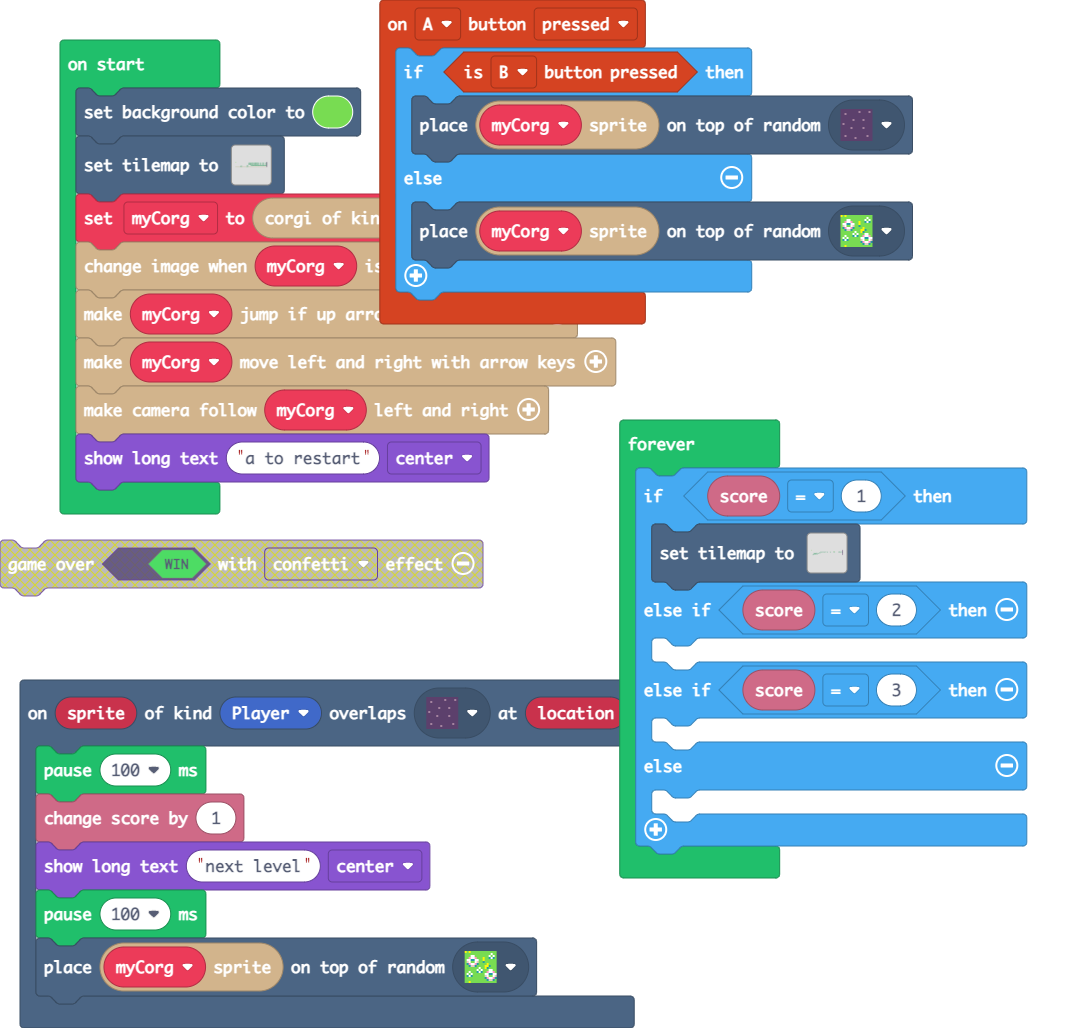
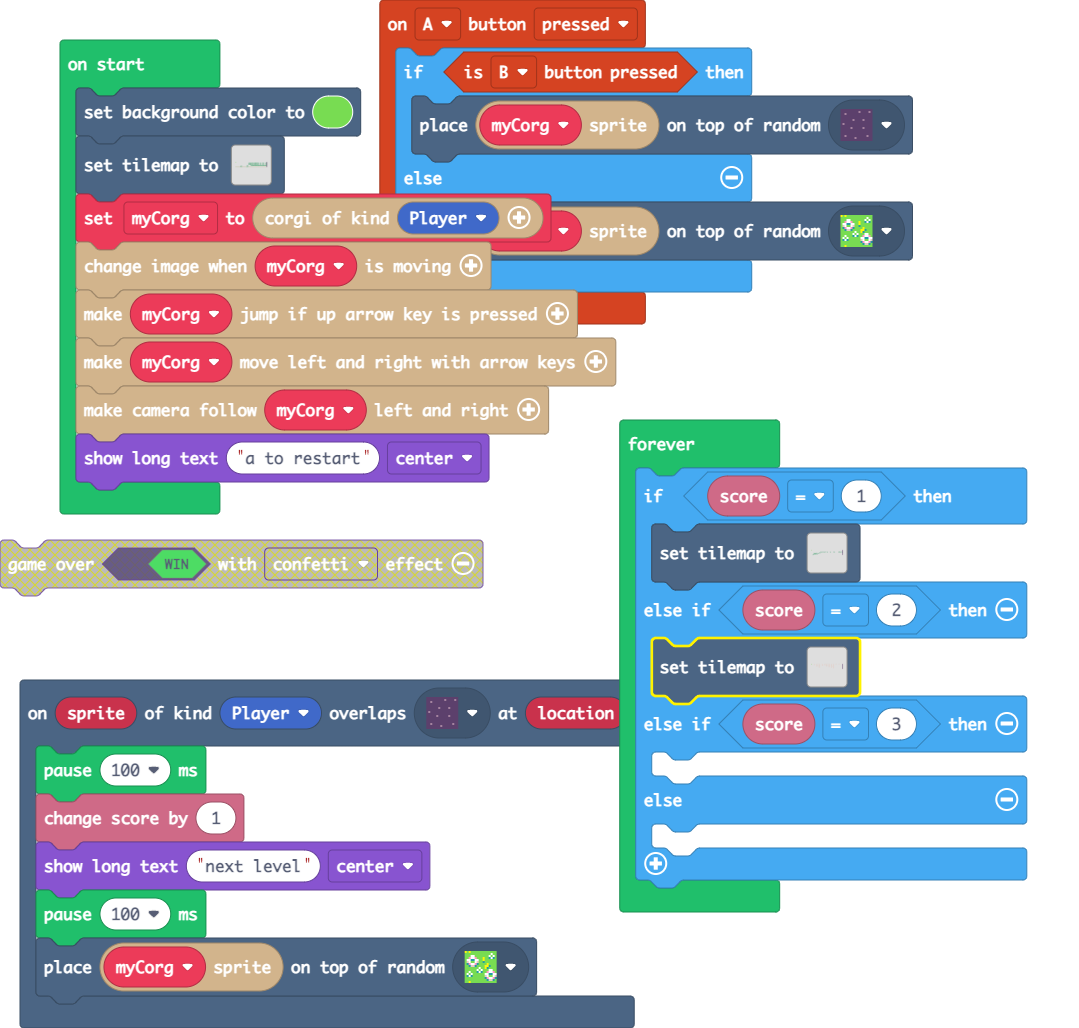
levle 3

Changed region(s): [[0.5505, 0.5914, 0.9787, 0.9027], [0.3364, 0.1868, 0.5505, 0.3424]]

diff --git a/tilemap.g.ts b/tilemap.g.ts
@@ -16,17 +16,6 @@ namespace myTiles {
 .........2.........2..........2....................
 .........2.........2...........2...................
 `, [myTiles.transparency16,sprites.castle.tilePath8,sprites.castle.tilePath7,sprites.builtin.forestTiles0,sprites.castle.tilePath9,sprites.dungeon.darkGroundCenter,sprites.castle.tileGrass2], TileScale.Sixteen);
-            case "level2":
-            case "level2":return tiles.createTilemap(hex`340008000100000000000000000000000000000000000000000000000000000000000000000000000000000000000000000000000000000300000000000000000000000000000000000000000000000000000000000000000000000000000000000000000000000000000003000000000000000000000000000000000000000000000000000000000000000000000000000100000000000000000000000000030000000000000000000000000000000002000002000002000000020000000002000000000002000000000000000200020000020300000000000000000000000000000200000000000000000000000000000000000000000000000000000000000000000000000003000000000002000200020000020000000000000000000000000000000000000000000000000000000000000000000000000000030000000002000200020002000000000000000000000000000000000000000000000000000000000000000000000000000000000300000002000000000000000000000000000000000000000000000000000000000000000000000000000000000000000000000003`, img`
-22..................................................
-22..................................................
-2...................................................
-2...............2..2..2...2....2.....2.......2.2..2.
-2.............2...................................2.
-2....2.2.2..2.....................................2.
-2...2.2.2.2.......................................2.
-222222222222222222222222222222222222222222222222222.
-`, [myTiles.transparency16,sprites.castle.tileGrass2,sprites.builtin.forestTiles0,sprites.dungeon.darkGroundCenter], TileScale.Sixteen);
             case "level3":
             case "level3":return tiles.createTilemap(hex`33000800060000000000000000000000000000000000000000000000000000000000000000000000000000000000000000000000000005000000000000000000000000000000000000000000000300000300000300000300030000030000000300000003000000000305000000000000000000000000000000000000000000000300000300000300000300030000030000000300000003000000000305000000000000000000000000000000000000000000030303030300000300000300030000030000000300000003000000000305000000000000000000000000000000000000000000000000000300000300000300030000030000000300000003000000000305000000000000000000000000000000000000000300000000000303030303030303030303030303030303030303030303030305000000000000000000030000000000000000000300000000000000000000000000000000000000000000000000000000000005020101010101010104030201010101010101040302010101010101010101010101010101010101010101010101010101010105`, img`
 ...................................................
@@ -38,6 +27,66 @@ namespace myTiles {
 .........2.........2..........2....................
 .........2.........2...........2...................
 `, [myTiles.transparency16,sprites.castle.tilePath8,sprites.castle.tilePath7,sprites.builtin.forestTiles0,sprites.castle.tilePath9,sprites.dungeon.darkGroundCenter,sprites.castle.tileGrass2], TileScale.Sixteen);
+            case "level4":
+            case "level4":return tiles.createTilemap(hex`1000100000000000000000000000000000000000000000000000000000000000000000000000000000000000000000000000000000000000000000000000000000000000000000000000000000000000000000000000000000000000000000000000000000000000000000000000000000000000000000000000000000000000000000000000000000000000000000000000000000000000000000000000000000000000000000000000000000000000000000000000000000000000000000000000000000000000000000000000000000000000000000000000000000000000000000000000000000000000000000000000000000000000000000000000000000000000`, img`
+. . . . . . . . . . . . . . . . 
+. . . . . . . . . . . . . . . . 
+. . . . . . . . . . . . . . . . 
+. . . . . . . . . . . . . . . . 
+. . . . . . . . . . . . . . . . 
+. . . . . . . . . . . . . . . . 
+. . . . . . . . . . . . . . . . 
+. . . . . . . . . . . . . . . . 
+. . . . . . . . . . . . . . . . 
+. . . . . . . . . . . . . . . . 
+. . . . . . . . . . . . . . . . 
+. . . . . . . . . . . . . . . . 
+. . . . . . . . . . . . . . . . 
+. . . . . . . . . . . . . . . . 
+. . . . . . . . . . . . . . . . 
+. . . . . . . . . . . . . . . . 
+`, [myTiles.transparency16], TileScale.Sixteen);
+            case "level5":
+            case "level5":return tiles.createTilemap(hex`1000100000000000000000000000000000000000000000000000000000000000000000000000000000000000000000000000000000000000000000000000000000000000000000000000000000000000000000000000000000000000000000000000000000000000000000000000000000000000000000000000000000000000000000000000000000000000000000000000000000000000000000000000000000000000000000000000000000000000000000000000000000000000000000000000000000000000000000000000000000000000000000000000000000000000000000000000000000000000000000000000000000000000000000000000000000000000`, img`
+. . . . . . . . . . . . . . . . 
+. . . . . . . . . . . . . . . . 
+. . . . . . . . . . . . . . . . 
+. . . . . . . . . . . . . . . . 
+. . . . . . . . . . . . . . . . 
+. . . . . . . . . . . . . . . . 
+. . . . . . . . . . . . . . . . 
+. . . . . . . . . . . . . . . . 
+. . . . . . . . . . . . . . . . 
+. . . . . . . . . . . . . . . . 
+. . . . . . . . . . . . . . . . 
+. . . . . . . . . . . . . . . . 
+. . . . . . . . . . . . . . . . 
+. . . . . . . . . . . . . . . . 
+. . . . . . . . . . . . . . . . 
+. . . . . . . . . . . . . . . . 
+`, [myTiles.transparency16], TileScale.Sixteen);
+            case "level2":
+            case "level2":return tiles.createTilemap(hex`340008000100000000000000000000000000000000000000000000000000000000000000000000000000000000000000000000000000000300000000000000000000000000000000000000000000000000000000000000000000000000000000000000000000000000000003000000000000000000000000000000000000000000000000000000000000000000000000000000000000000000000000000000030000000000000000000000000000000002000002000002000000020000000002000000000002000000000000000200020000020300000000000000000000000000000200000000000000000000000000000000000000000000000000000000000000000000000003000000000002000200020000020000000000000000000000000000000000000000000000000000000000000000000000000000030000000002000200020002000000000000000000000000000000000000000000000000000000000000000000000000000000000300000002000000000000000000000000000000000000000000000000000000000000000000000000000000000000000000000003`, img`
+22..................................................
+22..................................................
+2...................................................
+2...............2..2..2...2....2.....2.......2.2..2.
+2.............2...................................2.
+2....2.2.2..2.....................................2.
+2...2.2.2.2.......................................2.
+222222222222222222222222222222222222222222222222222.
+`, [myTiles.transparency16,sprites.castle.tileGrass2,sprites.builtin.forestTiles0,sprites.dungeon.darkGroundCenter], TileScale.Sixteen);
+            case "level6":
+            case "level6":return tiles.createTilemap(hex`340008000300000000010000000100000001000000000100000001000001000000010000000100000100000001000000000100000000000200000000000100000001000000010000000001000000010000010000000100000001000001000000000000000000000000000002000000000000000000010000000100000000010000000000000100000001000000010000010000000000000000000000000000020000000000000000000100000001000000000000000000000001000000010000000100000100000000000000000000000000000200000000000000000000000000010000000000000000000000000000000100000001000001000000000000000000000000000002000000000000000000000000000100000000000000000000000000000000000000010000010000000000000000000000000000020000000000000000000000000000000000000000000000000000000000000000000000000100000000000000000000000000000200000000000000000000000000000000000000000000000000000000000000000000000000000000000000000000000000000002`, img`
+....................................................
+....................................2...............
+.............2...................2..2...............
+.............2...............2...2..2...............
+.........2...2...........2...2...2..2...............
+.........2...2....2......2...2...2..2...............
+.....2...2...2....2...2..2...2...2..2...............
+.....2...2...2....2...2..2...2...2..2...2....2......
+`, [myTiles.transparency16,sprites.castle.tilePath5,sprites.dungeon.darkGroundCenter,sprites.castle.tileGrass2], TileScale.Sixteen);
         }
         return null;
     })

diff --git a/main.ts b/main.ts
@@ -25,7 +25,7 @@ forever(function () {
     if (info.score() == 1) {
         tiles.setTilemap(tilemap`level2`)
     } else if (info.score() == 2) {
-    	
+        tiles.setTilemap(tilemap`level6`)
     } else if (info.score() == 3) {
     	
     } else {
